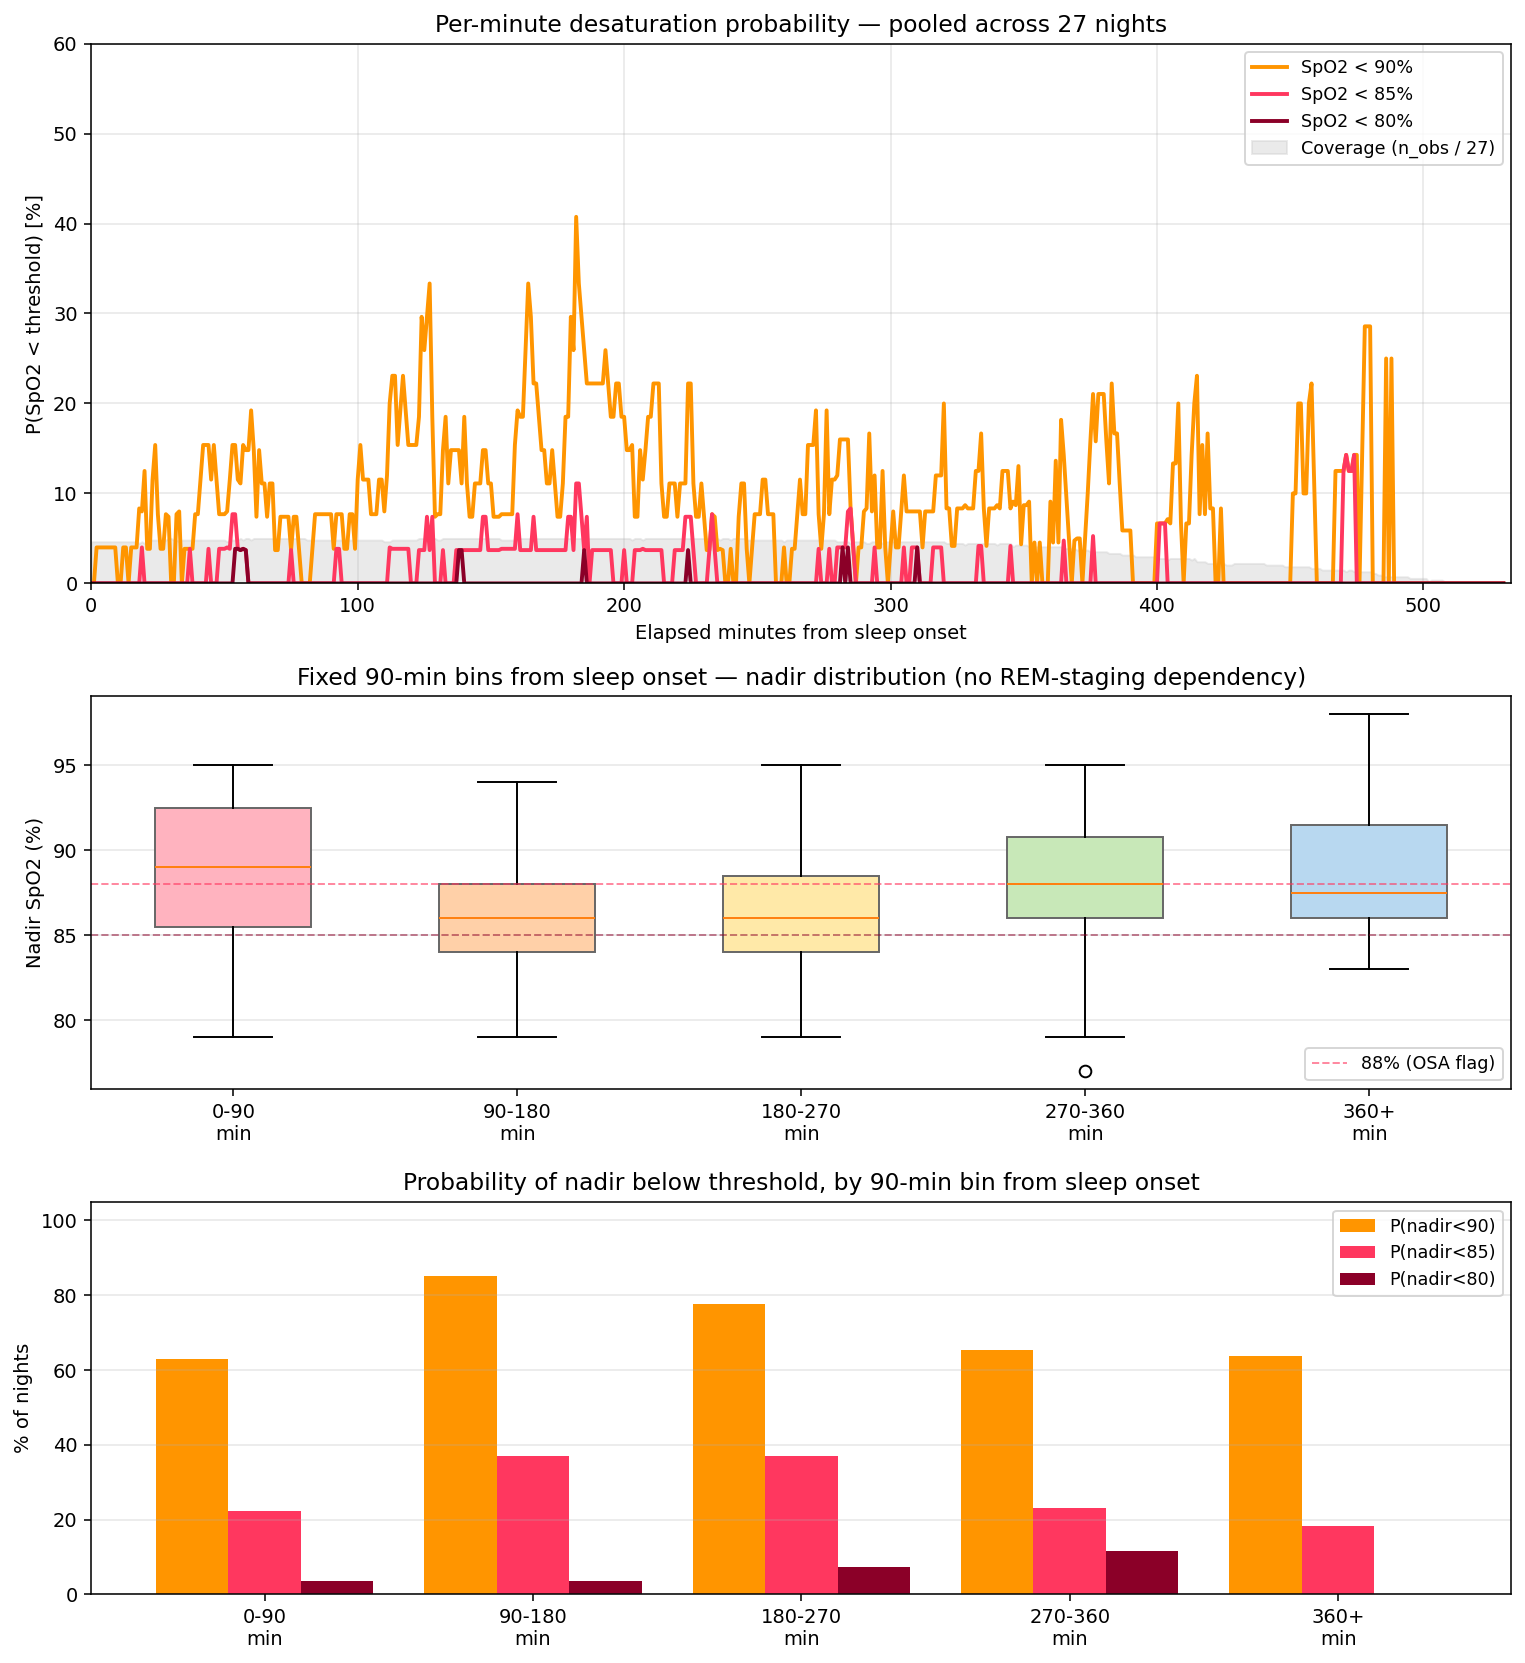
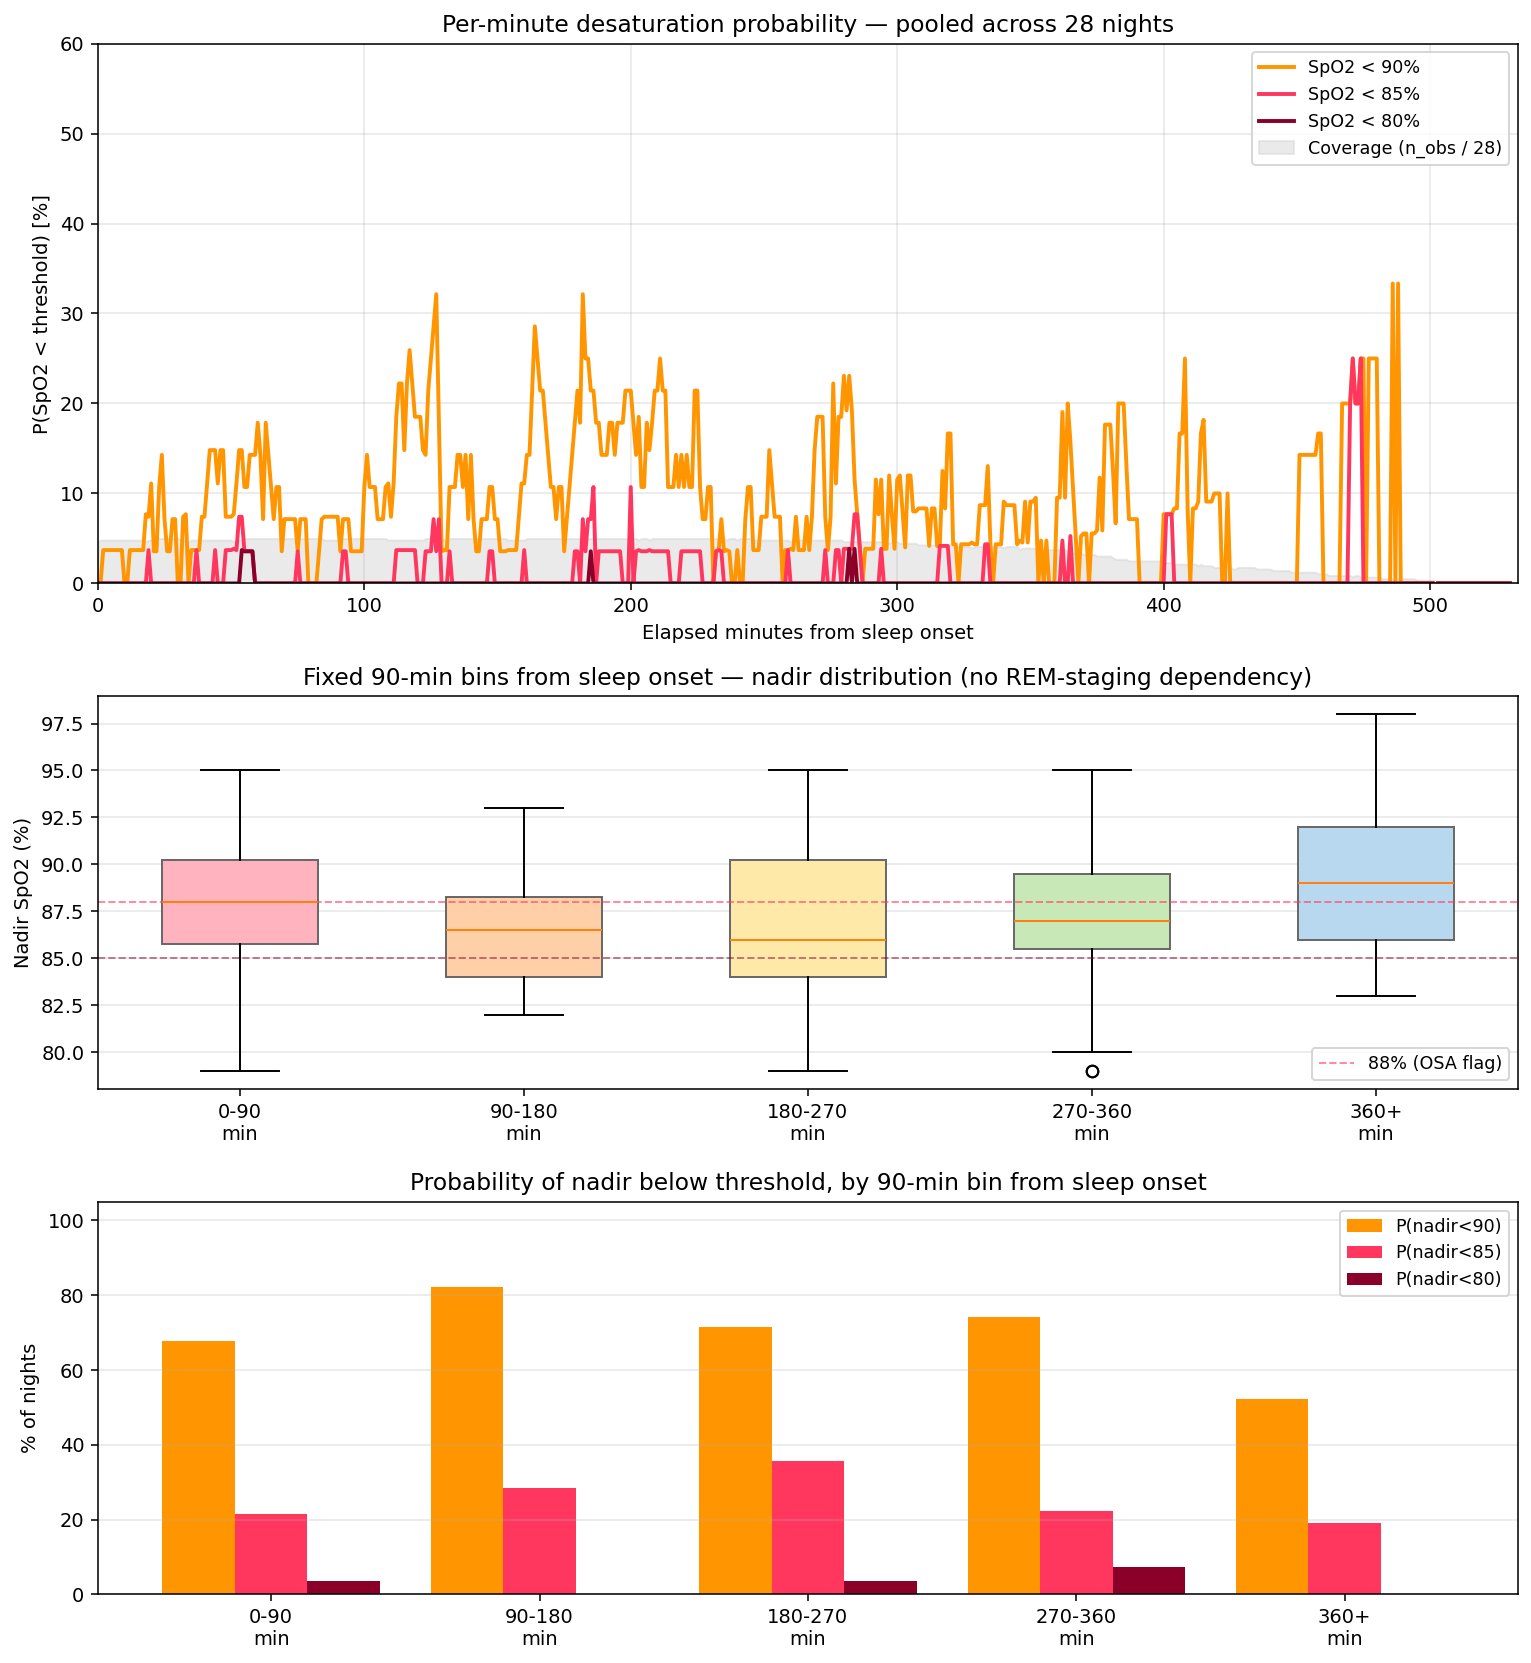
新增 SpO2 heatmap 永久軸圖 — 取代 7 晚 overlay；裝置一致性過濾
新增 scripts/analyze_spo2_heatmap.py：
- 28 晚 Venu 4 cohort（deviceId 3622900919），每晚一橫列
- 下方副圖 median + IQR + 90%/88% 紅旗線 + C1-C5 cycle bin 標記
- 圖底 device-consistency caption（前一台裝置 4/19-4/23 共 5 晚剔除）
- 同步 by_cycle 腳本加 Venu 4 device filter（28 晚版本）

rule 寫入：
- templates/daily-command.md: 移除 --overlay 步驟，加入 --heatmap（永久軸圖每日重生成）
- templates/daily.md: SpO2 區塊改列 heatmap 連結
- archive_spo2.py: heatmap 加入 ALWAYS_ROOT 永久保留清單
- CLAUDE.md: 腳本清單加 by_cycle / heatmap，移除 desats 的「7 晚 overlay」描述

臨床意義：
- 28 晚 Mean T90 9.32% / Median 8.97%（vs 混合 33 晚 9.23%；headline 不變）
- 證實兩台 sensor calibration 一致，臨床訊號非 artefact
- C2-C3 塌陷帶模式 robust（C2 T90 11.6% / C3 12.0%）
- HSAT 帶診核心圖（醫師沒看過病人帶 28-night cohort）

diff --git a/scripts/analyze_spo2_heatmap.py b/scripts/analyze_spo2_heatmap.py
@@ -1,0 +1,225 @@
+"""
+SpO2 全夜 heatmap — 33+ 晚疊圖。
+
+每一晚一橫列，x 軸入睡後分鐘，色階 SpO2 75-100%。
+下方副圖：每分鐘中位數 + IQR（25-75 百分位）。
+
+用途：
+  - 視覺化「C2-C3 (90-270 min) 塌陷帶」是 robust 還是少數夜驅動
+  - 揪 outlier 夜 → 對照當天介入 / 體位 / 晚餐 → 找可控變因
+
+Output:
+  reviews/daily/spo2/spo2_heatmap_all_nights.png
+"""
+import json
+from pathlib import Path
+from datetime import datetime, timezone
+import sys
+
+import matplotlib
+matplotlib.use("Agg")
+import matplotlib.pyplot as plt
+import numpy as np
+
+if sys.stdout.encoding and sys.stdout.encoding.lower() not in ("utf-8", "utf8"):
+    try:
+        sys.stdout.reconfigure(encoding="utf-8")
+    except Exception:
+        pass
+
+ROOT = Path(__file__).resolve().parent.parent
+DATA_DIR = ROOT / "data" / "garmin"
+OUT_DIR = ROOT / "reviews" / "daily" / "spo2"
+OUT_DIR.mkdir(parents=True, exist_ok=True)
+
+MAX_MIN = 480  # 8 小時
+SPO2_MIN_VIS = 80  # color scale lower bound
+SPO2_MAX_VIS = 100
+
+# Device filter — Venu 4 only. Earlier device (3471541259, used 4/19-4/23) had
+# different SpO2 sensor characteristics and is excluded for cross-night consistency.
+VENU4_DEVICE_ID = 3622900919
+
+
+def parse_gmt(s: str) -> datetime:
+    if s.endswith(".0"):
+        s = s[:-2]
+    return datetime.fromisoformat(s).replace(tzinfo=timezone.utc)
+
+
+def load_night(p: Path):
+    try:
+        data = json.loads(p.read_text(encoding="utf-8"))
+    except Exception:
+        return None
+    sleep = data.get("sleep") or {}
+    dto = sleep.get("dailySleepDTO") or {}
+    start_ts = dto.get("sleepStartTimestampGMT")
+    end_ts = dto.get("sleepEndTimestampGMT")
+    if not start_ts or not end_ts:
+        return None
+    sleep_start = datetime.fromtimestamp(start_ts / 1000, tz=timezone.utc)
+    sleep_end = datetime.fromtimestamp(end_ts / 1000, tz=timezone.utc)
+    epochs_raw = sleep.get("wellnessEpochSPO2DataDTOList") or []
+    if not epochs_raw:
+        return None
+
+    # Device filter — skip nights from non-Venu 4 devices
+    first_device = epochs_raw[0].get("deviceId") if epochs_raw else None
+    if first_device != VENU4_DEVICE_ID:
+        return None
+
+    minute_min = {}  # minute_int -> min SpO2 in that minute
+    for e in epochs_raw:
+        ts_raw = e.get("epochTimestamp")
+        if isinstance(ts_raw, str):
+            ts = parse_gmt(ts_raw)
+        else:
+            ts = datetime.fromtimestamp(ts_raw / 1000, tz=timezone.utc)
+        if ts < sleep_start or ts > sleep_end:
+            continue
+        em = int((ts - sleep_start).total_seconds() / 60)
+        val = e.get("spo2Reading")
+        if val is None or val <= 0:
+            continue
+        if em < 0 or em >= MAX_MIN:
+            continue
+        if em not in minute_min or val < minute_min[em]:
+            minute_min[em] = val
+
+    if not minute_min:
+        return None
+
+    arr = np.full(MAX_MIN, np.nan)
+    for em, v in minute_min.items():
+        arr[em] = v
+
+    return {
+        "date": p.stem,
+        "tst_min": (sleep_end - sleep_start).total_seconds() / 60,
+        "spo2_per_min": arr,
+    }
+
+
+def main():
+    files = sorted(DATA_DIR.glob("20*.json"))
+    nights = []
+    for f in files:
+        n = load_night(f)
+        if n is not None:
+            nights.append(n)
+    if not nights:
+        print("No usable nights.")
+        return
+
+    nights.sort(key=lambda n: n["date"])
+    matrix = np.array([n["spo2_per_min"] for n in nights])
+
+    n_nights = matrix.shape[0]
+    dates = [n["date"][5:] for n in nights]  # MM-DD
+    nadirs = [int(np.nanmin(n["spo2_per_min"])) if not np.all(np.isnan(n["spo2_per_min"])) else None for n in nights]
+    t90s = []
+    for n in nights:
+        v = n["spo2_per_min"]
+        v = v[~np.isnan(v)]
+        t90s.append(100 * (v < 90).sum() / len(v) if len(v) else None)
+
+    # Median + IQR per minute across nights
+    med = np.nanmedian(matrix, axis=0)
+    q25 = np.nanpercentile(matrix, 25, axis=0)
+    q75 = np.nanpercentile(matrix, 75, axis=0)
+    cov = (~np.isnan(matrix)).sum(axis=0)
+
+    fig = plt.figure(figsize=(14, max(8, 0.22 * n_nights + 4)))
+    gs = fig.add_gridspec(
+        2, 2,
+        height_ratios=[max(4, 0.22 * n_nights), 2.5],
+        width_ratios=[1, 0.025],
+        hspace=0.12, wspace=0.02,
+    )
+    ax_hm = fig.add_subplot(gs[0, 0])
+    ax_cb = fig.add_subplot(gs[0, 1])
+    ax_med = fig.add_subplot(gs[1, 0], sharex=ax_hm)
+
+    # Heatmap
+    cmap = plt.get_cmap("RdYlGn")
+    im = ax_hm.imshow(
+        matrix,
+        aspect="auto",
+        origin="upper",
+        cmap=cmap,
+        vmin=SPO2_MIN_VIS, vmax=SPO2_MAX_VIS,
+        extent=[0, MAX_MIN, n_nights, 0],
+        interpolation="nearest",
+    )
+    ax_hm.set_yticks(np.arange(n_nights) + 0.5)
+    annotated = []
+    for i, (d, nad, t90) in enumerate(zip(dates, nadirs, t90s)):
+        if nad is None or t90 is None:
+            annotated.append(d)
+        else:
+            annotated.append(f"{d}  n{nad}  T{t90:.1f}%")
+    ax_hm.set_yticklabels(annotated, fontsize=7)
+    ax_hm.set_xlim(0, MAX_MIN)
+    ax_hm.set_xlabel("Minutes from sleep onset")
+    ax_hm.set_title(
+        f"SpO2 heatmap — {n_nights} nights ({nights[0]['date']} → {nights[-1]['date']})\n"
+        f"Each row = 1 night (nadir per minute); annotation = date  nadir  T90",
+        fontsize=10,
+    )
+    # Cycle band markers
+    for x in [90, 180, 270, 360]:
+        ax_hm.axvline(x, color="black", lw=0.4, alpha=0.4, linestyle=":")
+    # Highlight C2-C3 worst band
+    ax_hm.axvspan(90, 270, color="black", alpha=0.06, zorder=0)
+
+    cb = fig.colorbar(im, cax=ax_cb)
+    cb.set_label("SpO2 %", fontsize=9)
+
+    # Median + IQR panel
+    x = np.arange(MAX_MIN)
+    ax_med.fill_between(x, q25, q75, alpha=0.25, color="steelblue", label="IQR (25-75)")
+    ax_med.plot(x, med, color="steelblue", lw=1.6, label="Median")
+    ax_med.axhline(90, color="orange", lw=0.7, linestyle="--", alpha=0.6, label="90% threshold")
+    ax_med.axhline(88, color="red", lw=0.7, linestyle="--", alpha=0.6, label="88% OSA red-flag")
+    for xv in [90, 180, 270, 360]:
+        ax_med.axvline(xv, color="black", lw=0.4, alpha=0.4, linestyle=":")
+    ax_med.axvspan(90, 270, color="black", alpha=0.06, zorder=0)
+    ax_med.set_xlabel("Minutes from sleep onset")
+    ax_med.set_ylabel("SpO2 %")
+    ax_med.set_ylim(82, 100)
+    ax_med.set_xlim(0, MAX_MIN)
+    ax_med.legend(loc="lower right", fontsize=8, ncol=4)
+
+    # Annotate cycle bins on top axis
+    ax_top = ax_med.secondary_xaxis("top")
+    ax_top.set_xticks([45, 135, 225, 315, 405])
+    ax_top.set_xticklabels(["C1", "C2", "C3", "C4", "C5+"], fontsize=9)
+
+    # Device-consistency caption
+    fig.text(
+        0.5, 0.005,
+        f"Single-device cohort: Garmin Venu 4 (deviceId {VENU4_DEVICE_ID}). "
+        f"Earlier device (4/19-4/23, 5 nights) excluded for SpO2 sensor consistency.",
+        ha="center", fontsize=7.5, style="italic", color="dimgray",
+    )
+
+    out = OUT_DIR / "spo2_heatmap_all_nights.png"
+    fig.savefig(out, dpi=140, bbox_inches="tight")
+    plt.close(fig)
+    print(f"Saved: {out}")
+    print(f"Nights: {n_nights}, range {nights[0]['date']} → {nights[-1]['date']}")
+
+    # Quick outlier console table — bottom 5 by T90
+    pairs = [(d, t) for d, t in zip(dates, t90s) if t is not None]
+    pairs.sort(key=lambda x: -x[1])
+    print("\nTop 5 worst nights (T90 %):")
+    for d, t in pairs[:5]:
+        print(f"  {d}  T90 = {t:.1f}%")
+    print("\nTop 5 best nights (T90 %):")
+    for d, t in sorted(pairs, key=lambda x: x[1])[:5]:
+        print(f"  {d}  T90 = {t:.1f}%")
+
+
+if __name__ == "__main__":
+    main()

diff --git a/scripts/analyze_spo2_by_cycle.py b/scripts/analyze_spo2_by_cycle.py
@@ -43,6 +43,10 @@ OUT_DIR.mkdir(parents=True, exist_ok=True)
 STAGE = {0.0: "deep", 1.0: "light", 2.0: "REM", 3.0: "awake"}
 THRESHOLDS = [90, 85, 80]
 
+# Device filter — Venu 4 only. Earlier device (3471541259, used 4/19-4/23) had
+# different SpO2 sensor characteristics and is excluded for cross-night consistency.
+VENU4_DEVICE_ID = 3622900919
+
 
 def parse_gmt(s: str) -> datetime:
     """Garmin GMT timestamps end '.0'. Treat as UTC."""
@@ -69,6 +73,11 @@ def load_night(p: Path):
     epochs_raw = sleep.get("wellnessEpochSPO2DataDTOList") or []
     levels = sleep.get("sleepLevels") or []
     if not epochs_raw or not levels:
+        return None
+
+    # Device filter — skip nights from non-Venu 4 devices
+    first_device = epochs_raw[0].get("deviceId") if epochs_raw else None
+    if first_device != VENU4_DEVICE_ID:
         return None
 
     stages = []

diff --git a/scripts/archive_spo2.py b/scripts/archive_spo2.py
@@ -29,7 +29,12 @@ if sys.stdout.encoding and sys.stdout.encoding.lower() not in ("utf-8", "utf8"):
 ROOT = Path(__file__).resolve().parent.parent
 SPO2_DIR = ROOT / "reviews" / "daily" / "spo2"
 DAILY_DIR = ROOT / "reviews" / "daily"
-ALWAYS_ROOT = {"spo2_desat_trend.png", "hrv_trend.png", "spo2_by_cycle.png"}
+ALWAYS_ROOT = {
+    "spo2_desat_trend.png",
+    "hrv_trend.png",
+    "spo2_by_cycle.png",
+    "spo2_heatmap_all_nights.png",
+}
 DATE_RE = re.compile(r"(\d{4})-(\d{2})-(\d{2})")
 
 

diff --git a/templates/daily-command.md b/templates/daily-command.md
@@ -8,7 +8,7 @@
    - 「昨日回顧/飲水」請讀 `reports/daily-garmin/{昨日日期}.md`
    - **SpO2 夜間趨勢**：讀取過去 7 晚 `reports/daily-garmin/*.md` 的「最低 SpO2」與「日均 SpO2」（缺檔以 `—` 表示），於對話中顯示連 3 晚 / 7 晚 < 88% 的計數，並在寫檔時填入 daily 檔案的「SpO2 夜間最低 7 晚趨勢」表格
    - **SpO2 全夜圖表（含 hypnogram 條帶）**：執行 `python scripts/analyze_spo2_desats.py --chart {今日日期}` 產生當晚 epoch-level 圖表（自動存於 `reviews/daily/spo2/spo2_desat_{今日日期}.png`）；**自 2026-05-19 起**，當 Garmin sleepLevels 可用時，圖表會自動內建 2-panel 排版（上：hypnogram 條帶 Deep/Light/REM；下：SpO2 折線 + 階段背景色），用於 OSA 表型即時判讀。並執行 `python scripts/analyze_spo2_desats.py --trend` 更新整體趨勢圖（`reviews/daily/spo2/spo2_desat_trend.png`）；在 daily 檔案的 SpO2 區塊嵌入相對連結
-   - **SpO2 多晚 Overlay 圖**：執行 `python scripts/analyze_spo2_desats.py --overlay {今日日期}` 產生 rolling 7 晚 SpO2 epoch 疊圖（檔名格式 `reviews/daily/spo2/spo2_overlay_{start}_to_{end}_elapsed.png`，x 軸 = 距入睡分鐘）。**滾動窗**：每天輸出當日往前 7 晚（含今日）的 overlay；缺資料的日期自動跳過；舊快照保留為歷史。在 daily 檔案的 SpO2 區塊嵌入該圖相對連結
+   - **SpO2 全夜 Heatmap（28+ 晚全紀錄；自 2026-05-21 起取代 `--overlay`）**：執行 `python scripts/analyze_spo2_heatmap.py` 產生 `reviews/daily/spo2/spo2_heatmap_all_nights.png`（永久軸圖；每日重生成、不歸檔）。每一橫列 = 1 晚，x 軸入睡後分鐘，色階 SpO2 80-100%，下方副圖為每分鐘 median + IQR + 90% / 88% 紅旗線 + C1-C5 cycle bin 標記。**用途**：(1) 確認今晚在全 cohort 中的相對分位；(2) 揪 outlier 夜對照當天介入；(3) HSAT 帶診核心圖。**裝置一致性**：僅納入 Garmin Venu 4 (deviceId 3622900919)；前一台裝置（4/19-4/23 共 5 晚）自動剔除。在 daily 檔案的 SpO2 區塊嵌入該圖相對連結
    - **SpO2 × 睡眠分期 7 晚疊圖**：執行 `python scripts/analyze_spo2_desats.py --hypnogram7 {今日日期}` 產生 rolling 7 晚 hypnogram × SpO2 疊圖（檔名 `reviews/daily/spo2/spo2_hypnogram_7night_{今日日期}.png`）。每晚一列 subplot，REM/Light/Deep 背景色 + SpO2 折線。**主要用途**：判讀 OSA 主導階段是否漂移（REM-dominant vs Light-dominant vs Deep-dominant），單晚結論需用 7 晚趨勢驗證再下表型。在 daily 檔案的 SpO2 區塊嵌入該圖相對連結。同時 console 輸出 stage-stratified nadir / <90% 表，可在判讀區引用。
    - 若 sync 失敗（429 / 網路 / token 過期），改採手動輸入模式，在睡眠步驟向使用者詢問 Sleep Score、Body Battery、就寢/起床時間
 3. **逐項引導使用者填寫，一次一個問題**（此階段**不寫任何檔案**，僅在對話中收集回答，避免 stop hook 中途觸發導致重複提問）：

diff --git a/reviews/daily/2026-05-21.md b/reviews/daily/2026-05-21.md
@@ -55,11 +55,14 @@
 - **Light：83% / 10%** ← 主導塌陷階段
 - REM：94% / 0%
 
-**Phenotype 更新（5/21）：** 由 5/20 假設的 REM/retropalatal → 今晨 **Light-dominant pattern**（Light 期 10% 時間 <90%，REM 期 0%）。Light 期主導通常指向 **NREM-positional / retroglossal-anatomical** 而非 REM-atonia 為主。30 分連續 event 屬重度（與昨日 8 分質性差距大）。**今晚是否實際穿網球 T-shirt？需確認**：若有穿仍惡化 → POSA 假設不成立 / 網球 fidelity 失敗；若未穿 → 補做網球 + 楔形評估。
+**Phenotype 更新（5/21）：** 由 5/20 假設的 REM/retropalatal → 今晨 **Light-dominant pattern**（Light 期 10% 時間 <90%，REM 期 0%）。Light 期主導通常指向 **NREM-positional / retroglossal-anatomical** 而非 REM-atonia 為主。30 分連續 event 屬重度（與昨日 8 分質性差距大）。
+
+**🎯 POSA 假設經驗證實（5/21 user-confirmed）：** 使用者主觀觀察 — 「**睡到一半會翻過來，3 點醒來時為仰臥位**」。Position fidelity 失敗從推測升級為**直接證據**。30 min event 最可能在翻仰之後發生，3 點 awakening 可能是嚴重 desat 觸發的 autonomic arousal（HR/呼吸頻率上升 → 醒）。**對應行動**：(1) 凍結期重點不在「網球穿了沒」，在「網球是否能持續阻止仰臥 ≥ 7h」— 今晚起每晨補答「醒來時體位 = 側 / 仰」；(2) 若網球仍翻仰 → upgrade 至 Buckwheat 抱枕固定 / 充氣腰帶（PMID 24643974）；(3) PSG 預約時主動告知技師「position-sensitive」，請求 supine vs lateral AHI 分層。
 
 **SpO2 全夜圖：** reviews/daily/spo2/spo2_desat_2026-05-21.png
 **SpO2 趨勢圖：** reviews/daily/spo2/spo2_desat_trend.png
-**SpO2 7 晚 Overlay：** reviews/daily/spo2/spo2_overlay_2026-05-15_to_2026-05-21_elapsed.png
+**SpO2 全夜 Heatmap（28 晚 Venu 4 cohort）：** reviews/daily/spo2/spo2_heatmap_all_nights.png
+**SpO2 by-cycle 統計：** reviews/daily/spo2/spo2_by_cycle.png
 **SpO2 × 睡眠分期 7 晚疊圖：** reviews/daily/spo2/spo2_hypnogram_7night_2026-05-21.png
 
 *Sleep Score < 65 或 Body Battery < 50 連續三天 → 重新檢視睡眠修復方案。*
@@ -113,6 +116,12 @@
 | 日期 | nadir | T90 | 最長 event | 網球 | Light/REM nadir | 主觀恢復感 |
 |------|-------|-----|-----------|------|-----------------|-----------|
 | 5/21（D1） | 83% | **7.4%** | **30 min** | ? 待確認 | 83 / 94 | 2 ⚠ |
+
+**5/21 補加欄位（POSA 驗證後）：每晨補答醒來體位**
+
+| 日期 | 醒來體位 | 中途翻仰自覺 |
+|------|---------|-------------|
+| 5/21 | **仰**（user-confirmed 3am 醒來時仰臥） | ✅ 翻過來 |
 | 5/22 | | | | | | |
 | 5/23 | | | | | | |
 | 5/24 | | | | | | |

diff --git a/CLAUDE.md b/CLAUDE.md
@@ -16,7 +16,9 @@ scripts/
   generate_dashboard.py     # 健康儀表板圖表生成腳本（matplotlib PNG）
   sync_data_js.py           # 從 reviews/daily/*.md 同步最新值至 data.js
   sync_garmin_daily.py      # 抓取 Garmin 昨夜睡眠 + 今晨 SpO2
-  analyze_spo2_desats.py    # SpO2 全夜圖（含 hypnogram 條帶）+ 趨勢 + 7 晚 overlay + 7 晚 hypnogram×SpO2 疊圖
+  analyze_spo2_desats.py    # SpO2 全夜圖（含 hypnogram 條帶）+ 趨勢 + 7 晚 hypnogram×SpO2 疊圖
+  analyze_spo2_by_cycle.py  # SpO2 cycle 統計（90-min bins，全 Venu 4 cohort）
+  analyze_spo2_heatmap.py   # SpO2 全夜 heatmap（all Venu 4 nights × elapsed min × color；自 2026-05-21 取代 7 晚 overlay）
   log_hydration.py          # 將昨日飲水量回寫至 Garmin Connect
   archive_spo2.py           # 週一執行：將非當週 SpO2 PNG 移至 spo2/archive/ 並更新 daily review 連結
 reviews/

diff --git a/templates/daily.md b/templates/daily.md
@@ -48,7 +48,7 @@
 
 **SpO2 全夜圖（含 hypnogram 條帶）：** [ ]
 **SpO2 趨勢圖：** [ ]
-**SpO2 多晚 Overlay（rolling 7 晚）：** [ ]
+**SpO2 全夜 Heatmap（28+ 晚 Venu 4 cohort）：** [ ]
 **SpO2 × 睡眠分期 7 晚疊圖：** [ ]
 
 *Sleep Score < 65 或 Body Battery < 50 連續三天 → 重新檢視睡眠修復方案。*
